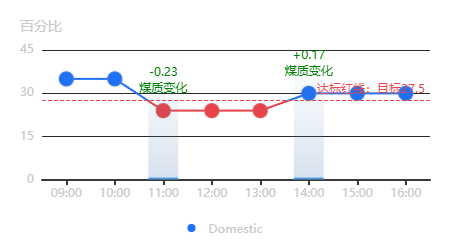
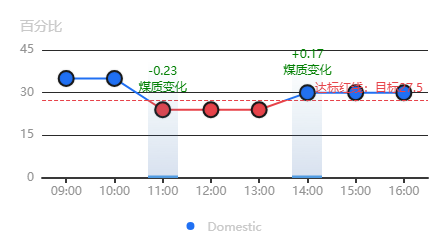
refactor: update the screenshot of the line-chart demo

diff --git a/public/option/LineChart/LineChart-14.js b/public/option/LineChart/LineChart-14.js
@@ -6,7 +6,7 @@ const option = {
     },
     // 折线图每个拐点样式
     itemStyle: {
-        symbolSize: '15',
+        symbolSize: 15,
     },
     // 当值为 null 时表示该线不显示，当值为 0 时表示该线仍然有值
     data: [
@@ -29,10 +29,11 @@ const option = {
     yAxis: {
         name: 'Unit'
     },
-    series: [ 
+    series: [
         {
             name: 'Domestic', // 覆盖 Domestic 线条的样式
             showSymbol: true,
+            symbol:'circle',
             label: {
                 show: true,
                 formatter: (params) => {

diff --git a/public/option/LineChart/LineChart-32.js b/public/option/LineChart/LineChart-32.js
@@ -1,4 +1,5 @@
 const option = {
+  theme:"hdesign-dark",
   data: [
     { time: '09:00', 'Domestic': 35 },
     { time: '10:00', 'Domestic': 35 },
@@ -26,6 +27,7 @@ const option = {
     {
       name: 'Domestic',
       symbolSize: 15,
+      symbol:'circle',
       showSymbol: true,
       hoverAnimation: false,
       label: {
